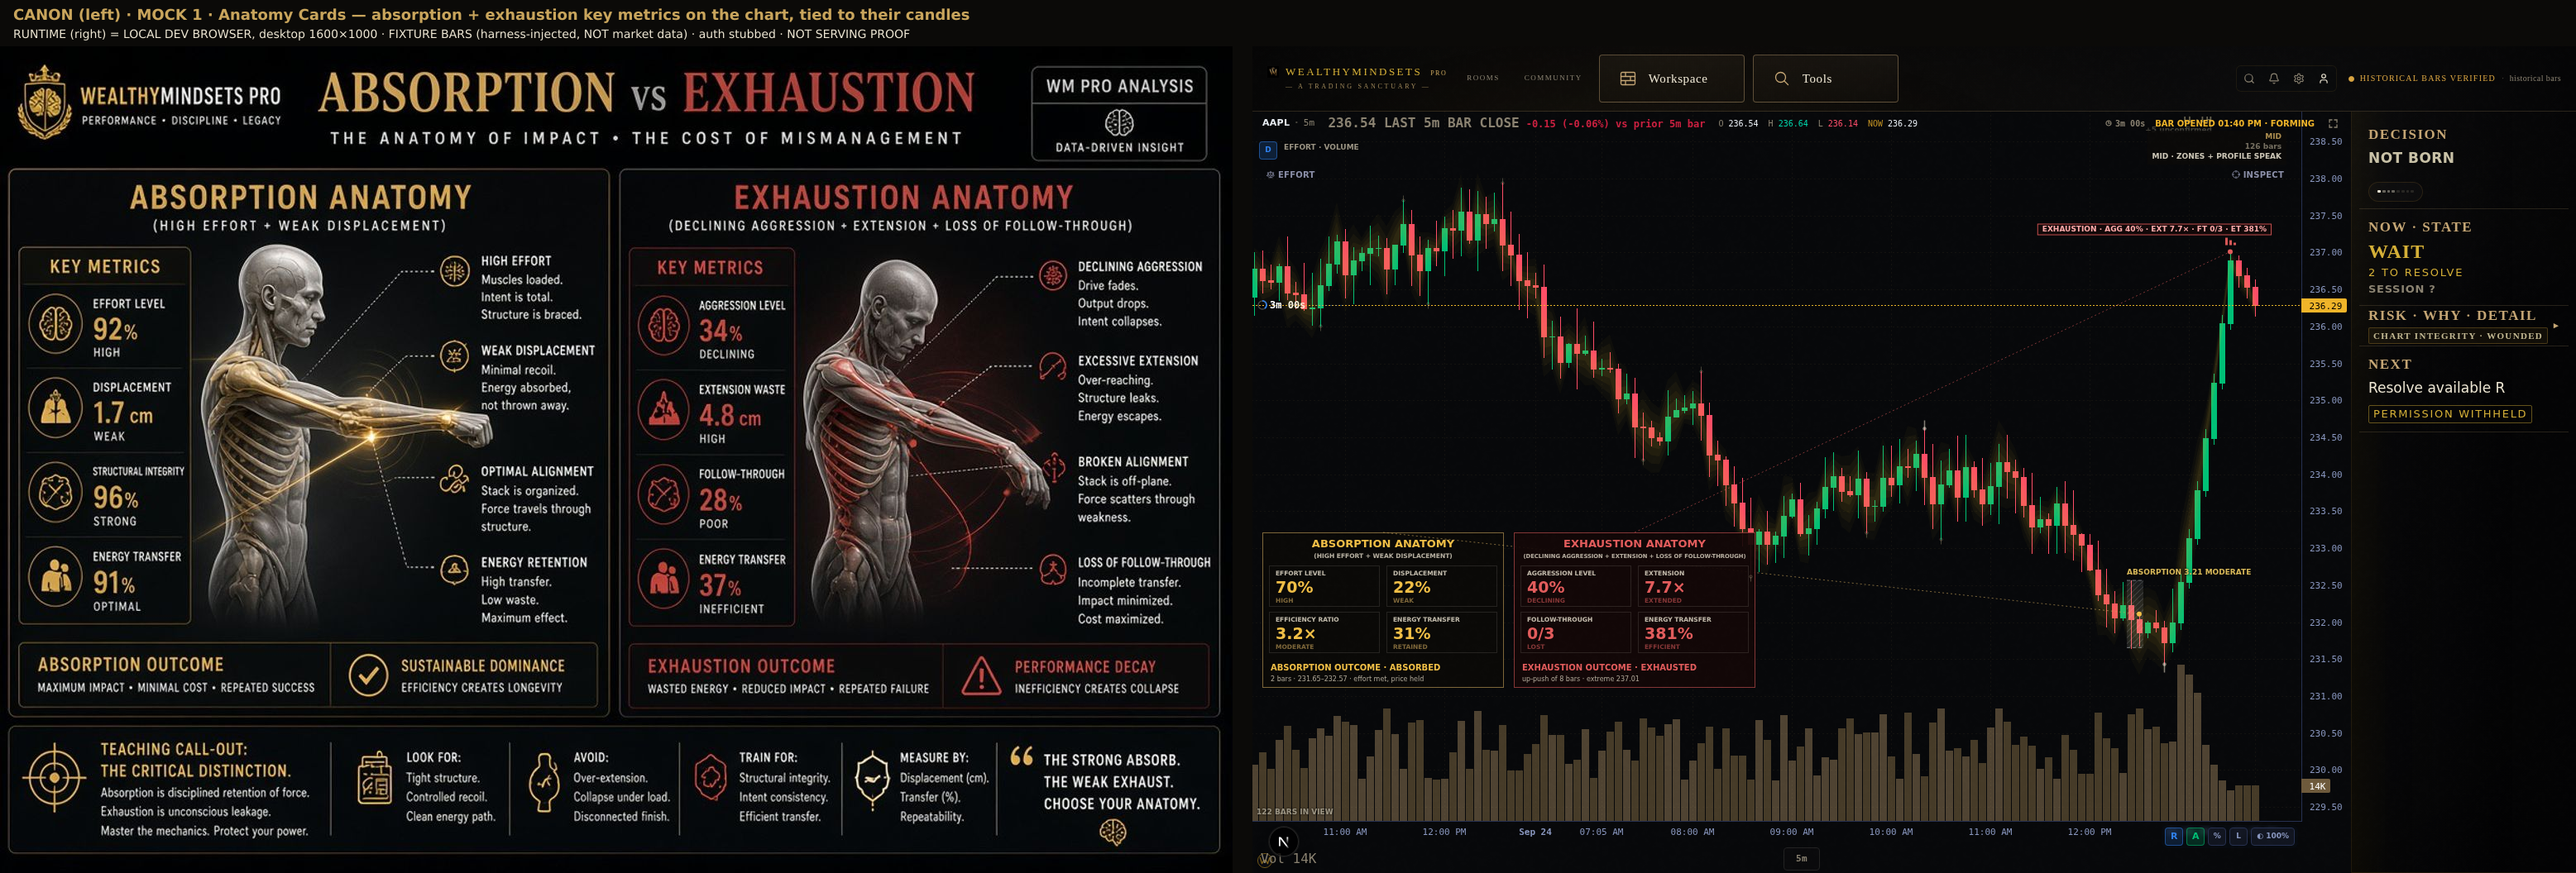
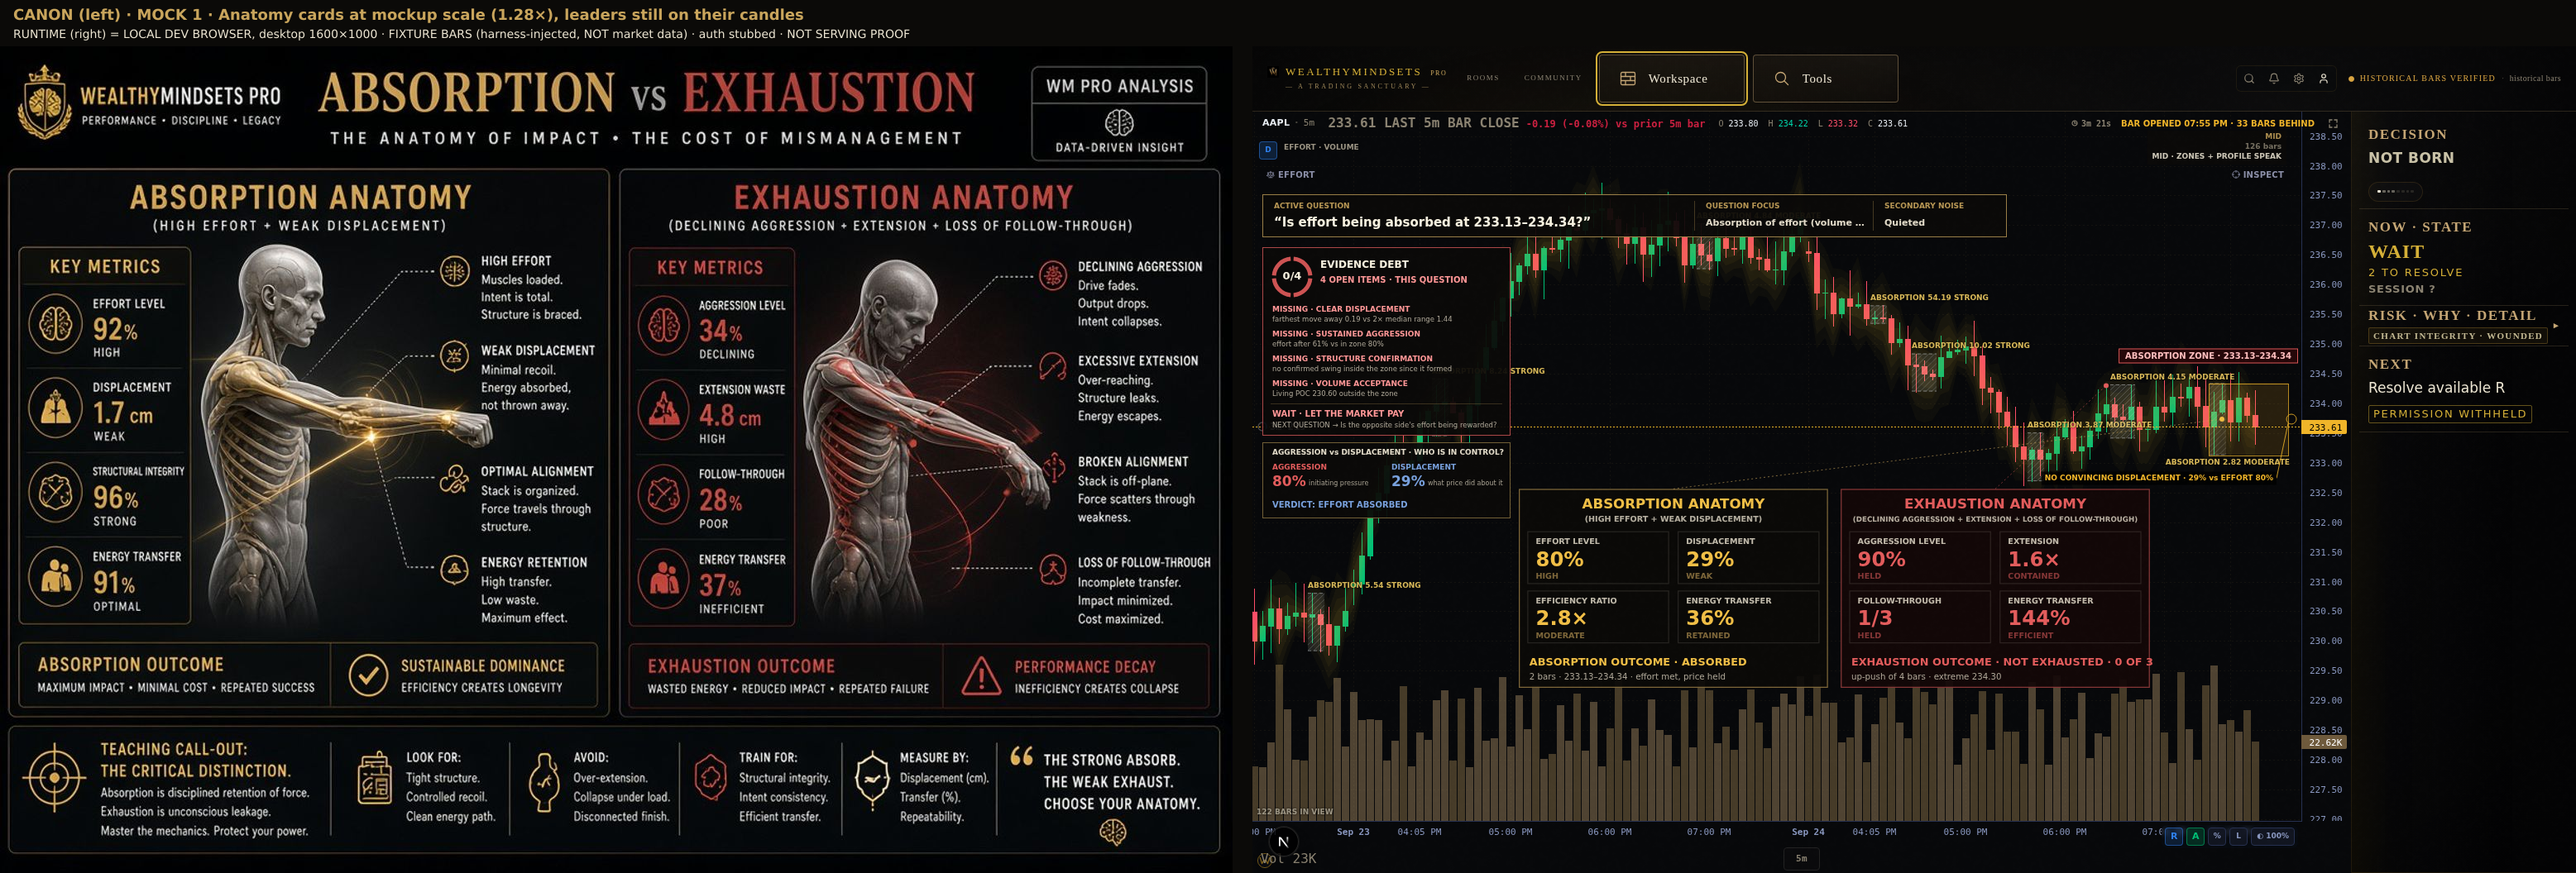
Anatomy cards at the mockup's scale
On a desktop camera with no scaffolding card beside them, the Absorption /
Exhaustion cards are magnified up to 1.28x as one piece, growing up from the
same floor. Leaders are drawn in screen space so they still land on their
candles. Receipt: ds.anatomyCardsScale.

Claude-Session: https://claude.ai/code/session_01Gntm2WzCaW5uQMS2aMojoZ

diff --git a/src/components/chart/MainChart.tsx b/src/components/chart/MainChart.tsx
@@ -8176,7 +8176,23 @@ export function MainChart({ symbol, timeframe, setTimeframe, footprintType, foot
               } else {
                 ds.anatomyCardsLayout = "CARDS";
               }
+              // MOCKUP SCALE (as the scaffolding plate): on a desktop camera
+              // the two cards are magnified as one piece, growing UP from the
+              // same floor so the volume pane stays clear. Held to 1 beside the
+              // scaffolding card or where the plot is too narrow. Leaders are
+              // drawn unscaled, so they still land on their own candles.
+              let cardK = 1;
+              if (!compact && sDepth === "OFF" && W >= 1280 && H >= 820) {
+                let aw = 90;
+                try { const w0 = chart.priceScale("right").width(); if (Number.isFinite(w0) && w0 > 0) aw = Math.ceil(w0); } catch {}
+                cardK = Math.max(1, Math.min(1.28, (W - aw - 12 - cardsLeft) / (2 * cw + gap), (cardsTop + ch - 240) / ch));
+              }
+              if (cardK > 1) cardsTop = cardsTop + ch - ch * cardK;
+              ds.anatomyCardsScale = cardK.toFixed(2);
               if (!compact) [cards.absorption, cards.exhaustion].forEach((c, k) => {
+                // Scaled space: origin at (cardsLeft, cardsTop).
+                ctx.save();
+                if (cardK > 1) { ctx.translate(cardsLeft, cardsTop); ctx.scale(cardK, cardK); ctx.translate(-cardsLeft, -cardsTop); }
                 const x0 = cardsLeft + k * (cw + gap);
                 const ex = c.kind === "EXHAUSTION";
                 const ACC = ex ? "rgba(226,92,92,1)" : "rgba(240,190,70,1)";
@@ -8196,6 +8212,7 @@ export function MainChart({ symbol, timeframe, setTimeframe, footprintType, foot
                 if (c.empty) {
                   ctx.font = font(600, 9); ctx.fillStyle = "rgba(200,192,174,0.85)";
                   ctx.fillText(c.empty.length > 52 ? c.empty.slice(0, 51) + "…" : c.empty, x0 + cw / 2, cardsTop + ch / 2 + 6);
+                  ctx.restore();
                   return;
                 }
                 // Four metric tiles, 2×2: label · big number · word.
@@ -8218,14 +8235,16 @@ export function MainChart({ symbol, timeframe, setTimeframe, footprintType, foot
                 ctx.fillText(`${ex ? "EXHAUSTION" : "ABSORPTION"} OUTCOME · ${c.outcome}`, x0 + 10, cardsTop + ch - 24);
                 ctx.font = font(500, 8); ctx.fillStyle = "rgba(200,192,174,0.85)";
                 ctx.fillText(c.outcomeNote, x0 + 10, cardsTop + ch - 10);
-                // Leader to the candles.
+                ctx.restore();
+                // Leader to the candles — in SCREEN space.
                 if (c.time != null && c.price != null) {
                   const xr = ts.timeToCoordinate(c.time as never);
                   const yr = srs.priceToCoordinate(c.price);
                   if (xr != null && yr != null) {
                     ctx.setLineDash([2, 3]);
                     ctx.strokeStyle = ACC_DIM;
-                    ctx.beginPath(); ctx.moveTo(x0 + cw / 2, cardsTop); ctx.lineTo(+xr, +yr); ctx.stroke();
+                    const lx0 = cardsLeft + (x0 - cardsLeft + cw / 2) * cardK;
+                    ctx.beginPath(); ctx.moveTo(lx0, cardsTop); ctx.lineTo(+xr, +yr); ctx.stroke();
                     ctx.setLineDash([]);
                     ctx.fillStyle = ACC;
                     ctx.beginPath(); ctx.arc(+xr, +yr, 3, 0, Math.PI * 2); ctx.fill();
